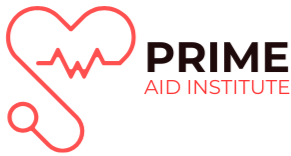
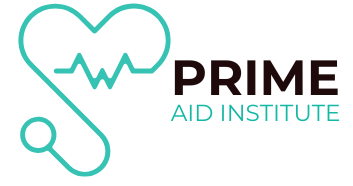
final

Changed region(s): [[0.0, 0.0, 1.0, 1.0]]

diff --git a/src/app/not-found.tsx b/src/app/not-found.tsx
@@ -1,0 +1,90 @@
+import Link from "next/link";
+import { Button } from "@/components/ui/button";
+import { Card, CardContent, CardHeader, CardTitle } from "@/components/ui/card";
+import { AlertTriangle, Eye } from "lucide-react";
+
+export default function HomePage() {
+  return (
+    <div className="min-h-screen bg-background">
+      <div className="container mx-auto px-4 py-16">
+        <div className="max-w-4xl mx-auto text-center space-y-8">
+          {/* Header */}
+          <div className="space-y-4">
+            <h1 className="text-4xl md:text-6xl font-bold text-foreground">
+              Welcome to Our Site
+            </h1>
+            <p className="text-xl text-muted-foreground max-w-2xl mx-auto">
+              This is a demo homepage showcasing our beautifully designed 404
+              error page.
+            </p>
+          </div>
+
+          {/* Demo Cards */}
+          <div className="grid md:grid-cols-2 gap-6 mt-12">
+            <Card className="bg-card border-border">
+              <CardHeader>
+                <CardTitle className="flex items-center gap-2">
+                  <Eye className="w-5 h-5 text-primary" />
+                  View 404 Page
+                </CardTitle>
+              </CardHeader>
+              <CardContent className="space-y-4">
+                <p className="text-muted-foreground">
+                  Check out our custom-designed 404 error page with engaging
+                  visuals and helpful navigation.
+                </p>
+                <Button
+                  asChild
+                  className="w-full bg-primary hover:bg-primary/90"
+                >
+                  <Link href="/">Home Page</Link>
+                </Button>
+              </CardContent>
+            </Card>
+
+            <Card className="bg-card border-border">
+              <CardHeader>
+                <CardTitle className="flex items-center gap-2">
+                  <AlertTriangle className="w-5 h-5 text-accent" />
+                  Design Features
+                </CardTitle>
+              </CardHeader>
+              <CardContent className="space-y-2">
+                <ul className="text-left space-y-2 text-muted-foreground">
+                  <li>• Warm amber and blue color scheme</li>
+                  <li>• Engaging hero illustration</li>
+                  <li>• Clear navigation options</li>
+                  <li>• Helpful links to popular sections</li>
+                  <li>• Dark mode support</li>
+                  <li>• Fully accessible design</li>
+                </ul>
+              </CardContent>
+            </Card>
+          </div>
+
+          {/* Navigation Links */}
+          <div className="pt-8">
+            <p className="text-muted-foreground mb-4">
+              Try these navigation examples:
+            </p>
+            <div className="flex flex-wrap justify-center gap-4">
+              <Button variant="outline" asChild>
+                <Link href="/about">About</Link>
+              </Button>
+              <Button variant="outline" asChild>
+                <Link href="/blog">Blog</Link>
+              </Button>
+              <Button variant="outline" asChild>
+                <Link href="/contact">Contact</Link>
+              </Button>
+            </div>
+            <p className="text-sm text-muted-foreground mt-4">
+              (These links will show the 404 page since they don&#39;t exist
+              yet)
+            </p>
+          </div>
+        </div>
+      </div>
+    </div>
+  );
+}

diff --git a/src/components/shared/Navbar.tsx b/src/components/shared/Navbar.tsx
@@ -32,7 +32,6 @@ export default function Navbar() {
     if (isOpen) setIsOpen(false);
   };
 
-  // Check active route
   const isActive = (href: string) =>
     href === "/" ? pathname === "/" : pathname.startsWith(href);
 
@@ -84,10 +83,10 @@ export default function Navbar() {
                     href={href}
                     onClick={handleLinkClick}
                     className={`relative inline-block text-lg cursor-pointer
-                      hover:bg-gradient-to-r hover:from-red-600 hover:to-red-500 hover:bg-clip-text hover:text-transparent transition
+                      hover:bg-gradient-to-r hover:from-emerald-600 hover:to-teal-500 hover:bg-clip-text hover:text-transparent transition
                       ${
                         isActive(href)
-                          ? "bg-gradient-to-r from-red-600 to-red-500 bg-clip-text text-transparent border-b-2 border-red-600"
+                          ? "bg-gradient-to-r from-emerald-600 to-teal-500 bg-clip-text text-transparent border-b-2 border-emerald-600"
                           : "text-gray-800"
                       }
                     `}
@@ -100,7 +99,7 @@ export default function Navbar() {
               {/* Mobile Menu Button */}
               <button
                 onClick={() => setIsOpen(!isOpen)}
-                className="md:hidden p-2 text-red-700"
+                className="md:hidden p-2 text-emerald-600"
                 aria-label="Toggle menu"
               >
                 {isOpen ? <X size={24} /> : <Menu size={24} />}
@@ -116,10 +115,10 @@ export default function Navbar() {
                     href={href}
                     onClick={handleLinkClick}
                     className={`relative inline-block px-1 py-1 text-lg cursor-pointer
-                      hover:bg-gradient-to-r hover:from-red-600 hover:to-red-500 hover:bg-clip-text hover:text-transparent transition
+                      hover:bg-gradient-to-r hover:from-emerald-600 hover:to-teal-500 hover:bg-clip-text hover:text-transparent transition
                       ${
                         isActive(href)
-                          ? "bg-gradient-to-r from-red-600 to-red-500 bg-clip-text text-transparent"
+                          ? "bg-gradient-to-r from-emerald-600 to-teal-500 bg-clip-text text-transparent"
                           : "text-gray-800"
                       }
                     `}
@@ -127,7 +126,7 @@ export default function Navbar() {
                     {name}
                     {isActive(href) && (
                       <span
-                        className="absolute bottom-0 left-0 h-0.5 bg-red-600"
+                        className="absolute bottom-0 left-0 h-0.5 bg-emerald-600"
                         style={{ width: "60px" }}
                       />
                     )}

diff --git a/src/components/modules/Home/OurCourses/OurCourses.tsx b/src/components/modules/Home/OurCourses/OurCourses.tsx
@@ -18,7 +18,7 @@ export default function OurCourses() {
   const [courses, setCourses] = useState<ICourses[]>([]);
   const [loading, setLoading] = useState(true);
   const [error, setError] = useState<string | null>(null);
-  console.log(courses);
+
   useEffect(() => {
     const fetchCourses = async () => {
       try {
@@ -48,15 +48,16 @@ export default function OurCourses() {
       </div>
     );
   }
+
   return (
     <section className="max-w-6xl mx-auto px-6 py-16">
-      <h1 className="text-6xl font-medium bg-gradient-to-r from-emerald-600 to-teal-500 bg-clip-text text-transparent mb-12 text-center">
+      <h1 className="text-6xl md:text-7xl font-medium bg-gradient-to-r from-emerald-600 to-teal-500 bg-clip-text text-transparent mb-12 text-center">
         Our Courses
       </h1>
       <div className="grid grid-cols-1 md:grid-cols-3 gap-8">
-        {courses.map((course, index) => (
+        {courses.map((course) => (
           <Card
-            key={index}
+            key={course._id}
             className="rounded-2xl overflow-hidden shadow-lg border hover:shadow-2xl transition-all duration-300 hover:scale-105 hover:border-emerald-500 "
           >
             <div className="relative w-full h-56 -mt-10">
@@ -68,7 +69,13 @@ export default function OurCourses() {
               />
             </div>
             <CardHeader>
-              <h3 className="font-bold text-lg">{course.title}</h3>
+              <Link key={course._id} href={`/courses/${course._id}`}>
+                <h3 className="text-lg md:text-xl lg:text-lg font-semibold leading-snug cursor-pointer hover:text-t">
+                  {course.title.length > 28
+                    ? `${course.title.slice(0, 32)}...`
+                    : course.title}
+                </h3>
+              </Link>
             </CardHeader>
             <CardContent>
               <p className="bg-gradient-to-r from-emerald-600 to-teal-500 bg-clip-text text-transparent font-semibold">
@@ -80,7 +87,7 @@ export default function OurCourses() {
             <Link key={course._id} href={`/courses/${course._id}`}>
               <Button
                 className="w-[calc(100%-2rem)] mx-4 mt-4 bg-gradient-to-r from-emerald-600 to-teal-500 text-white font-semibold py-3 rounded-xl 
-               transition-transform transform hover:scale-105 hover:from-emerald-700 hover:to-teal-600"
+                transition-transform transform hover:scale-105 hover:from-emerald-700 hover:to-teal-600 cursor-pointer"
               >
                 DETAILS
               </Button>

diff --git a/src/app/courses/page.tsx b/src/app/courses/page.tsx
@@ -73,8 +73,10 @@ const CoursePage = () => {
               </div>
 
               <div className="p-6 space-y-3 relative z-10">
-                <h3 className="text-xl font-extrabold bg-gradient-to-r from-teal-500 to-emerald-400 bg-clip-text text-transparent">
-                  {course.title}
+                <h3 className="text-lg md:text-xl lg:text-lg font-semibold leading-snug cursor-pointer hover:text-teal-700">
+                  {course.title.length > 28
+                    ? `${course.title.slice(0, 32)}...`
+                    : course.title}
                 </h3>
                 <p className="text-gray-700 dark:text-gray-300 font-semibold">
                   Duration: {course.duration}
@@ -84,7 +86,7 @@ const CoursePage = () => {
                 </p>
                 <Link key={course._id} href={`/courses/${course._id}`}>
                   <Button
-                    className="w-full mt-3 bg-gradient-to-r from-teal-500 to-emerald-400 text-white px-6 py-3 rounded-lg font-semibold
+                    className="w-full cursor-pointer mt-3 bg-gradient-to-r from-teal-500 to-emerald-400 text-white px-6 py-3 rounded-lg font-semibold
                              hover:from-teal-600 hover:to-emerald-500 shadow-lg hover:shadow-teal-400/40 transition-all duration-300"
                   >
                     DETAILS

diff --git a/src/components/shared/Footer.tsx b/src/components/shared/Footer.tsx
@@ -35,22 +35,22 @@ export default function Footer() {
           <h3 className="text-lg font-semibold text-white mb-4">Quick Links</h3>
           <ul className="space-y-2 text-sm">
             <li>
-              <Link href="/terms" className="hover:text-white">
+              <Link href="/" className="hover:text-white">
                 Terms & Conditions
               </Link>
             </li>
             <li>
-              <Link href="/privacy" className="hover:text-white">
+              <Link href="/" className="hover:text-white">
                 Privacy Policy
               </Link>
             </li>
             <li>
-              <Link href="/faq" className="hover:text-white">
+              <Link href="/" className="hover:text-white">
                 FAQ
               </Link>
             </li>
             <li>
-              <Link href="/licence" className="hover:text-white">
+              <Link href="/" className="hover:text-white">
                 Company Licence
               </Link>
             </li>
